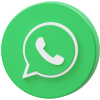
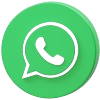
d

diff --git a/src/components/fixed_icons/fixedIcons.css b/src/components/fixed_icons/fixedIcons.css
@@ -1,49 +1,71 @@
 .btn-top {
-    position: fixed;
-    bottom: 10px;
-    right: 10px;
+  position: fixed;
+  bottom: 10px;
+  right: 10px;
 }
 .btn-whatsapp {
-    position: fixed;
-    bottom: 10px;
-    left: 10px;
+  position: fixed;
+  bottom: 10px;
+  left: 10px;
 }
 .containIcon {
-    cursor: pointer;
-    width: 60px;
-    margin: 20px;
-    z-index: 99;
+  cursor: pointer;
+  width: 60px;
+  margin: 20px;
+  z-index: 99;
 }
 
 .phone-numbers {
-    background-color: aquamarine;
-    width: 130px;
-    height: 80px;
-    position: absolute;
-    bottom: 70px;
-    left: 30px;
-    display: flex;
-    flex-direction: column;
-    /* align-items: center; */
-    justify-content: center;
-    border: 1px solid black;
-    border-radius: 10px;
+  background-color: aquamarine;
+  width: 130px;
+  height: 80px;
+  position: absolute;
+  bottom: 70px;
+  left: 30px;
+  display: flex;
+  flex-direction: column;
+  /* align-items: center; */
+  justify-content: center;
+  border: 1px solid black;
+  border-radius: 10px;
 }
 
 .eg img {
-    width: 40px;
-    height: 40px;
-    margin: 0 10px;
+  width: 40px;
+  height: 40px;
+  margin: 0 10px;
 }
 
 .sa img {
-    width: 40px;
-    height: 40px;
-    margin: 0 10px;
+  width: 40px;
+  height: 40px;
+  margin: 0 10px;
 }
 
 @media only screen and (max-width: 768px) {
-    .containIcon {
-        width: 40px;
+  .containIcon {
+    width: 40px;
+  }
+}
+.whatsApp {
+  border-radius: 50%;
+  box-shadow: 0px 0px 0px 0px gray;
+  border: 0px solid rgb(158, 158, 158);
+  /* box-sizing: padding-box; */
+  transition: all  1s;
+}
+@keyframes hoverEffect {
+    0%, 100% {
+      box-shadow: 0px 0px 3px 10px rgb(200, 196, 186);
+      border-width: 0px;
     }
+    50% {
+      box-shadow: 0px 0px 5px 7px rgb(221, 204, 204);
+      border-width: 10px;
+    }
+  }
+.whatsApp:hover {
+  box-shadow: 0px 0px 7px 7px gray;
+  border: 7px solid rgba(158, 158, 158, 0.445);
+  animation: hoverEffect 1.8s infinite;
 }

diff --git a/src/components/header/Header.tsx b/src/components/header/Header.tsx
@@ -122,6 +122,7 @@ function Header() {
               >
                 <Trans i18nKey="Home"></Trans>
               </NavLink>
+              
               <NavLink
                 onClick={() => {
                   window.scrollTo({ top: 0 });
@@ -143,10 +144,10 @@ function Header() {
                 >
                   <Trans i18nKey="Services"></Trans>
                 </a>
-                <ul className="dropdown-menu">
+                <ul className="dropdown-menu ">
                   <li className="m-0 p-0">
                     <NavLink
-                      className={`dropdown-item ${
+                      className={`dropdown-item  ${
                         location.pathname.startsWith("/services/web-design")
                           ? "active"
                           : ""

diff --git a/src/components/fixed_icons/FixedIcons.tsx b/src/components/fixed_icons/FixedIcons.tsx
@@ -45,7 +45,8 @@ function FixedIcons() {
                         </a>
                     </div>
                 )}
-                <img className="w-100" src="/assets/home/whatsappimage.png" alt="" />
+                <div className="bg-danger"></div>
+                <img className="w-100 whatsApp" src="/assets/home/whatsappimage.png" alt="" />
             </div>
         </div>
     );

diff --git a/src/main.tsx b/src/main.tsx
@@ -14,6 +14,7 @@ const urls = ["/#/demo/TourNest", "/#/demo/MotorMenders", "/#/demo/dental-clinic
 
 if (window.location.hash && urls.some((url) => window.location.href.includes(url))) {
     window.location.href = window.location.href.replace(/#\/?/, "");
+    window.location.reload()
 }
 
 ReactDOM.createRoot(document.getElementById("root")!).render(

diff --git a/src/components/home/Home.tsx b/src/components/home/Home.tsx
@@ -20,7 +20,6 @@ function Home() {
       <div className="container-fluid p-0 ">
     
         <TopSection />
-
         <OurServices />
         <Portfolio />
         <PartnersSlider />
